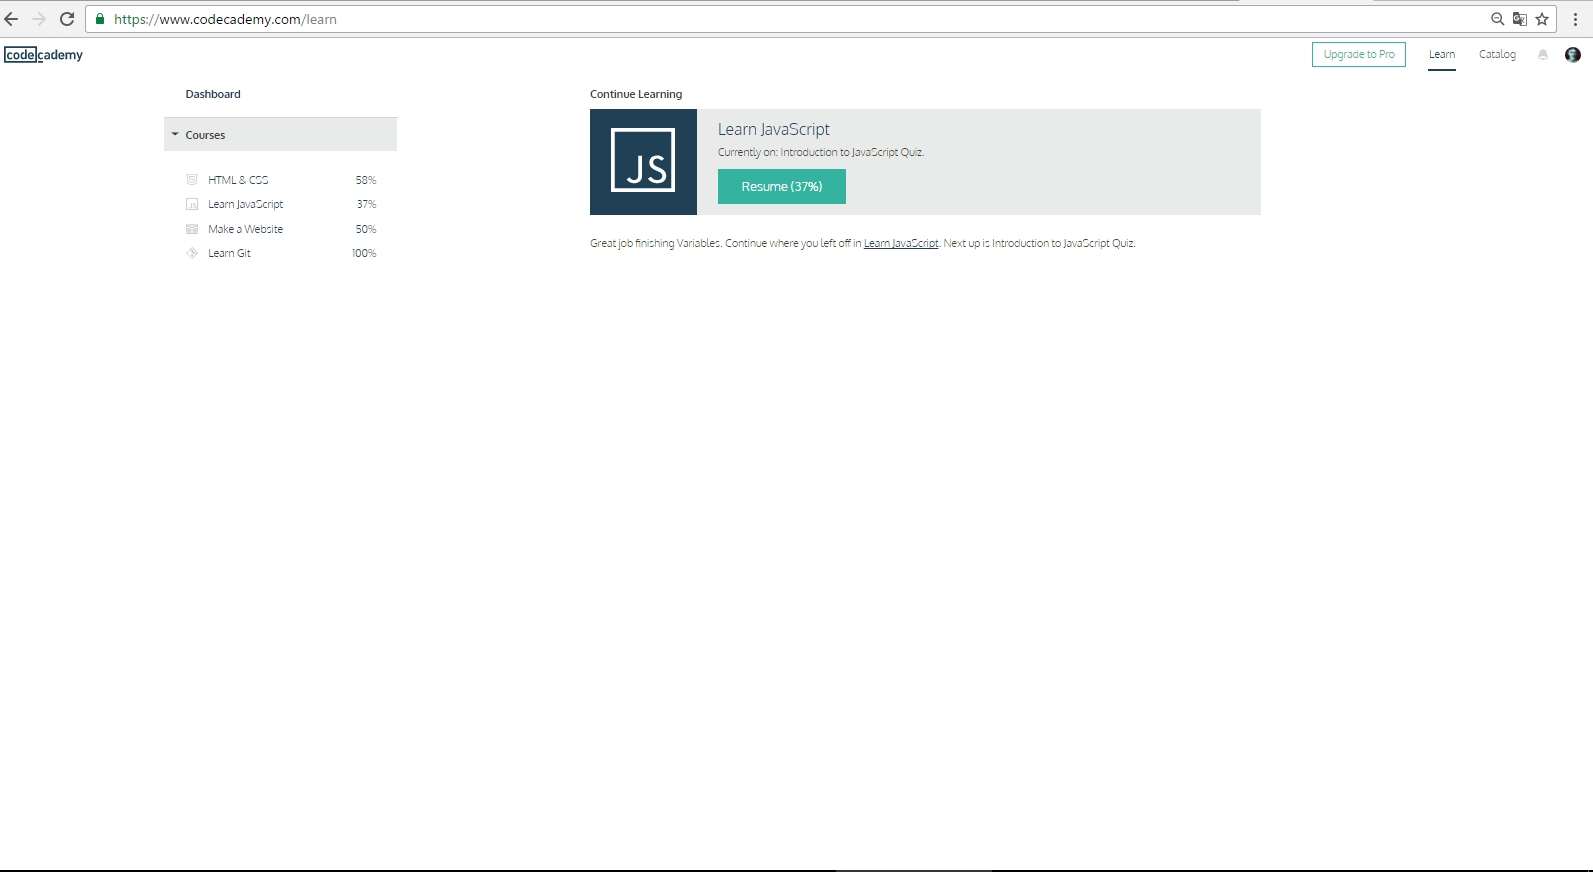
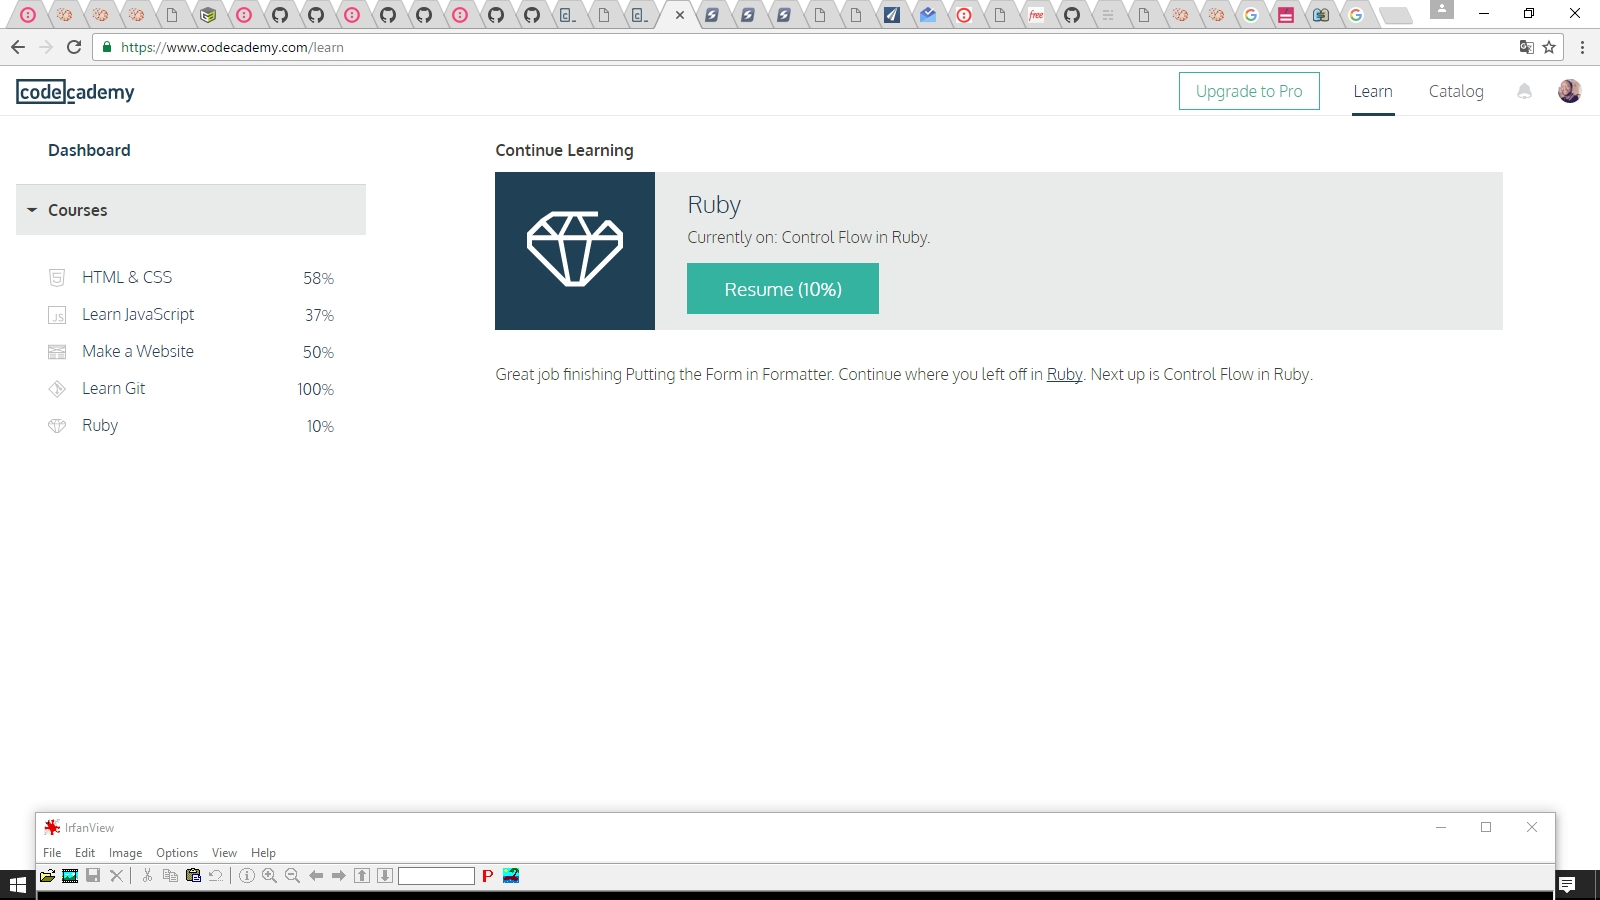
ajout des premiers badges RUBY

diff --git a/README.md b/README.md
@@ -1,7 +1,7 @@
 # Semaine2
 ## Patrick ROMAIN --->[***PROFIL CODE ACADEMY***](https://www.codecademy.com/PatrickROMAIN)
 
-Copies écran des 30 badges + Dashboard jointes dans ce Repository
+Copies écran des 33 badges + Dashboard jointes dans ce Repository
 
 ## Excercices réalisés  
 
@@ -13,5 +13,7 @@ Learn JavaScript 37%
 Make website     50%
 
 Learn Git       100%
+
+RUBY              10%
 
 ## CV = index.html
